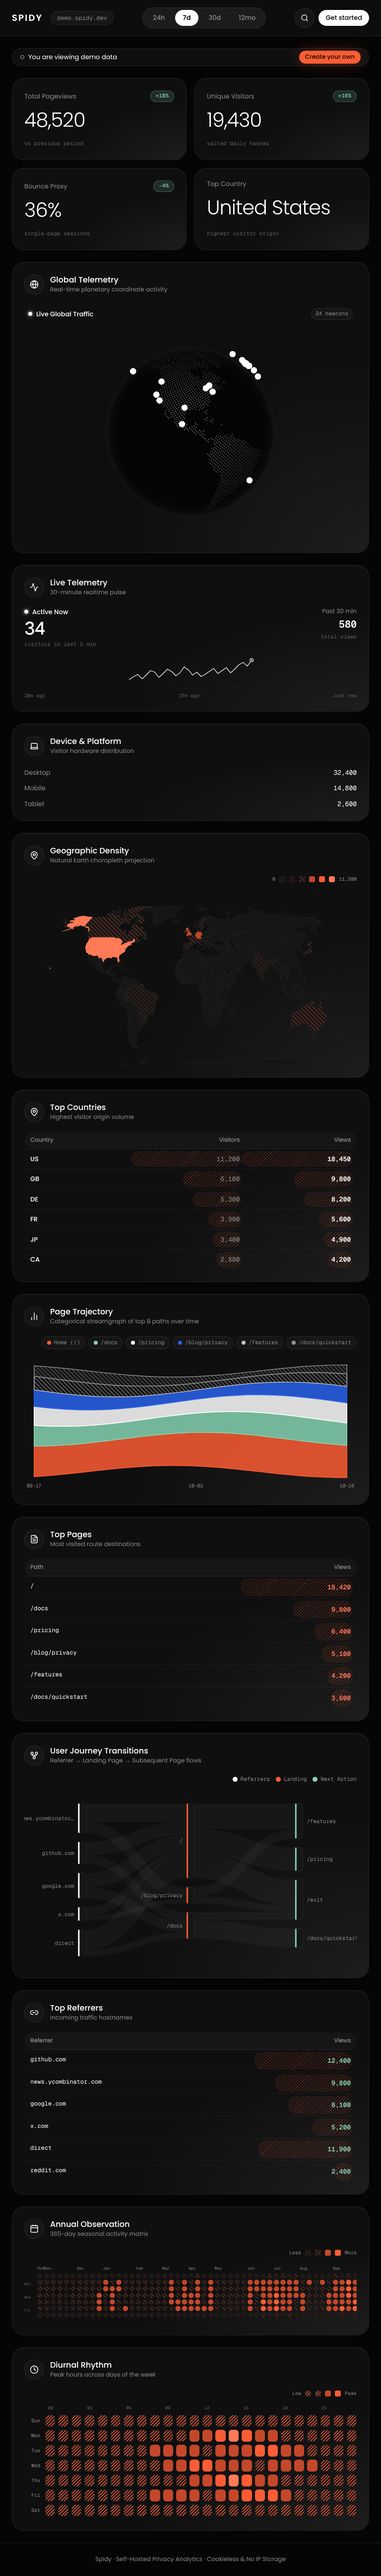
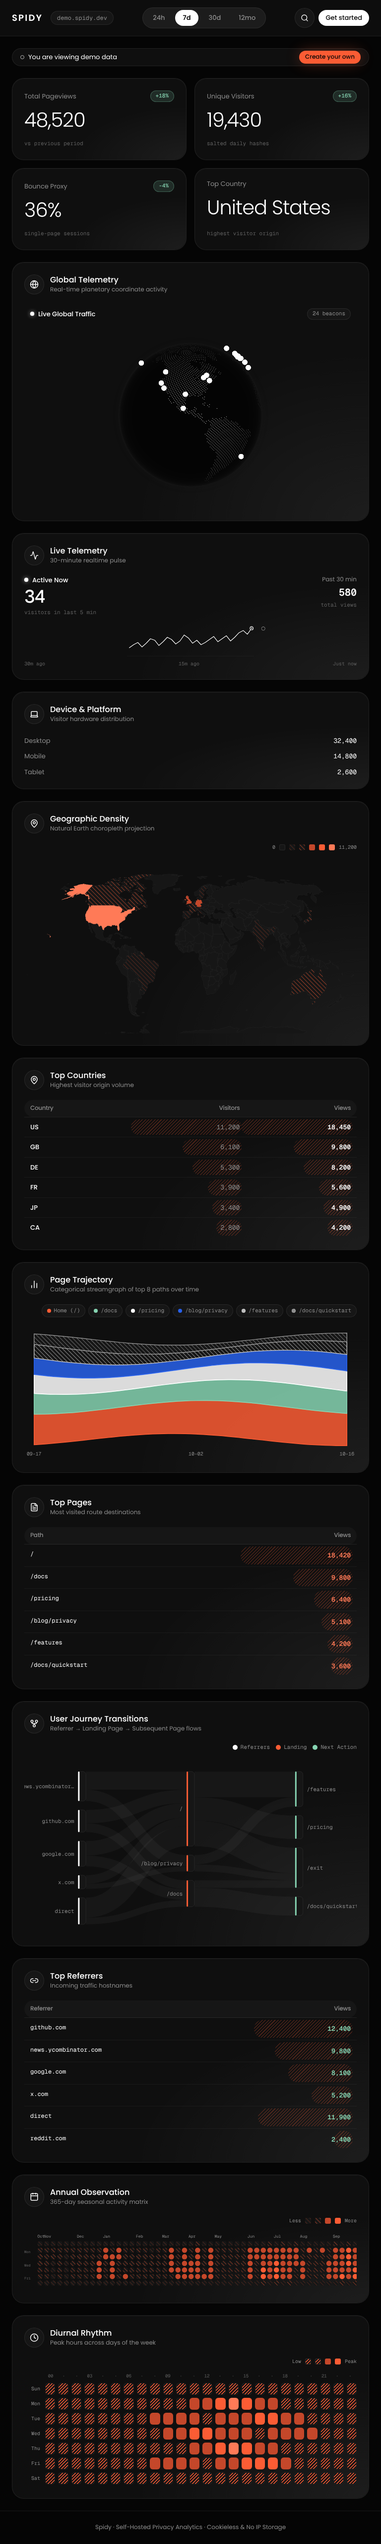
fix(hero-globe): adjust padding and header clearance on live global traffic card

diff --git a/components/viz/GlobeLive.tsx b/components/viz/GlobeLive.tsx
@@ -114,14 +114,14 @@ export function GlobeLive({
     <div
       className={
         embedded
-          ? `relative flex flex-col items-center justify-center w-full ${className}`
-          : `relative flex flex-col items-center justify-center bg-surface border border-border rounded-3xl p-6 sheen overflow-hidden shadow-[0_0_24px_rgba(255,255,255,0.25)] ${className}`
+          ? `relative flex flex-col items-center justify-between w-full h-full ${className}`
+          : `relative flex flex-col items-center justify-between bg-surface border border-border rounded-3xl p-6 sm:p-7 sheen overflow-hidden shadow-[0_0_24px_rgba(255,255,255,0.25)] ${className}`
       }
       role="region"
       aria-label="Real-time planetary globe telemetry"
     >
       {/* Live Badge and Beacon count */}
-      <div className={embedded ? "w-full flex items-center justify-between mb-2" : "absolute top-5 left-5 z-10 flex items-center gap-2.5"}>
+      <div className="w-full flex items-center justify-between mb-3 px-1 z-10 shrink-0">
         <div className="flex items-center gap-2">
           <span className="relative flex h-2 w-2">
             <span className="animate-live-pulse absolute inline-flex h-full w-full rounded-full bg-white opacity-75" />
@@ -129,7 +129,7 @@ export function GlobeLive({
           </span>
           <span className="font-sans text-[13px] font-medium text-white">Live Global Traffic</span>
         </div>
-        <span className="font-mono text-[11px] tabular-nums text-muted bg-raised px-2 py-0.5 rounded-full border border-border">
+        <span className="font-mono text-[11px] tabular-nums text-muted bg-raised px-2.5 py-0.5 rounded-full border border-border">
           {markers.length} {markers.length === 1 ? "beacon" : "beacons"}
         </span>
       </div>
@@ -139,7 +139,7 @@ export function GlobeLive({
         Interactive 3D globe displaying {markers.length} real-time active visitor locations.
       </div>
 
-      <div className="w-full max-w-[420px] aspect-square flex items-center justify-center mt-2">
+      <div className="relative w-full flex-1 max-w-[360px] aspect-square flex items-center justify-center">
         <canvas
           ref={canvasRef}
           style={{ width: "100%", height: "100%", contain: "layout paint size" }}

diff --git a/components/landing/HeroGlobe.tsx b/components/landing/HeroGlobe.tsx
@@ -20,7 +20,7 @@ const GlobeLive = dynamic(
  */
 export function HeroGlobe() {
   return (
-    <div className="relative w-full max-w-[440px] aspect-square mx-auto flex items-center justify-center rounded-4xl bg-surface border border-border p-4 sheen overflow-hidden shadow-[0_0_24px_rgba(255,255,255,0.25)]">
+    <div className="relative w-full max-w-[440px] aspect-square mx-auto flex flex-col justify-between rounded-4xl bg-surface border border-border p-6 sm:p-7 sheen overflow-hidden shadow-[0_0_24px_rgba(255,255,255,0.25)]">
       <GlobeLive markers={demoData.markers} embedded />
     </div>
   );

diff --git a/PROGRESS.md b/PROGRESS.md
@@ -392,3 +392,19 @@
   - `pnpm test:e2e`: 11/11 Playwright E2E tests passed.
   - `python3 scripts/verify-pixels.py`: 0 violating pixels across all 10 viewport screenshots.
 
+## Impeccable Polish: Hero Globe Layout & Header Clearance
+
+- **What was built**:
+  - Resolved border collision and cramped layout on the 3D globe card (`components/landing/HeroGlobe.tsx` and `components/viz/GlobeLive.tsx`).
+  - Increased hero globe container padding from `p-4` (16px) to `p-6 sm:p-7` (24px mobile, 28px desktop) and switched layout to `flex flex-col justify-between`.
+  - Relocated and standardized the "Live Global Traffic" and beacon counter header to `w-full flex items-center justify-between mb-3 px-1 z-10 shrink-0`, moving it safely away from the 32px rounded-4xl corner curvature.
+  - Resized the globe canvas wrapper to `relative w-full flex-1 max-w-[360px] aspect-square flex items-center justify-center` preventing vertical overflow displacement.
+- **How verified**:
+  - Visual verification via Playwright screenshot crops (`screenshots/landing-1440.png`, `screenshots/dashboard-1440.png`): confirmed generous ~28px breathing room from card borders, 0 collision with rounded corner curves.
+  - `python3 scripts/verify-pixels.py`: 0 violating pixels across all 10 viewport screenshots (100% PASSED).
+  - `pnpm lint`: 0 errors, 0 warnings.
+  - `pnpm test`: 5/5 unit tests passed.
+  - `pnpm test:e2e`: 11/11 Playwright E2E tests passed.
+  - `pnpm build`: Next.js Turbopack production build succeeded.
+
+
